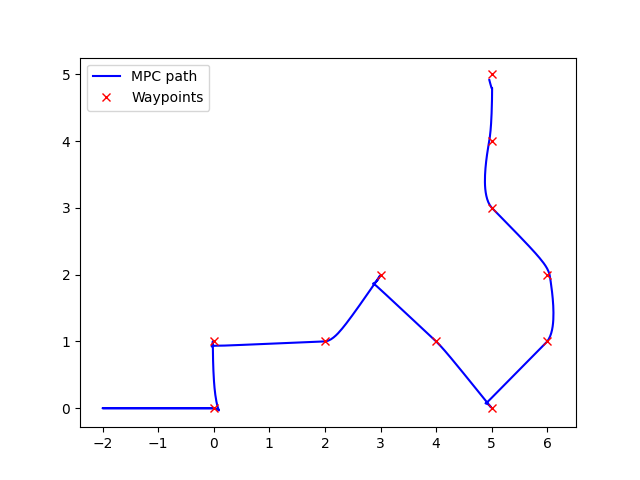
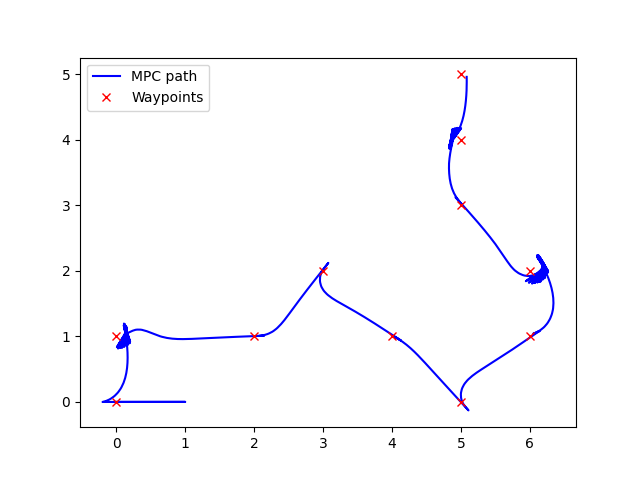
multi_agent running, but working???

diff --git a/src/mpc/src/combined_mpc_solver.py b/src/mpc/src/combined_mpc_solver.py
@@ -1,3 +1,5 @@
+#!/usr/bin/env python3
+
 # import numpy as np
 # import matplotlib.pyplot as plt
 # from numpy.linalg import inv
@@ -10,6 +12,9 @@
 # from scipy.linalg import expm
 # from scipy.linalg import solve_continuous_are
     
+import sys
+import pdb
+import time
 from pydrake.solvers import mathematicalprogram as mp
 from pydrake.solvers.osqp import OsqpSolver
 from pydrake.solvers.snopt import SnoptSolver
@@ -24,7 +29,7 @@ from rclpy.node import Node
 import numpy as np
 from std_msgs.msg import String
 from nav_msgs.msg import Odometry
-from geometry_msgs.msg import PoseWithCovariance, Pose, Twist
+from geometry_msgs.msg import PoseWithCovariance, Pose, Twist,Point
 
 from scipy.spatial.transform import Rotation as R 
 
@@ -34,32 +39,34 @@ from scipy.spatial.transform import Rotation as R
 
 robot_subscribers = None;
 robot_publishers = None
-robot_goals = None; #Array with current robot goals
-robot_states = None; #Arrays with robot states
+robot_goals = [None]; #Array with current robot goals
+robot_states = [None]; #Arrays with robot states
+controller_mode = "combined_mpc";
 
-robot_num = 2;
+num_robots = 2;
 
 
 ################################ ROS functions
 
 
-class ROS(Node):                             # Node that houses the subscriber and updates global var for position
+class PoseSubscriber(Node):                             # Node that houses the subscriber and updates global var for position
 
-    def __init__(self, num):
-        super().__init__('ros_message handler')
-        self.ID = num
+    def __init__(self, robot):
+        super().__init__('ros_message_handler' + str(robot))
+        self.ID = robot
         self.goal_subscriber = self.create_subscription(
-            Odometry,
-            "/robot" + str(num) + "/current_goal",         # The topic to listen to
+            Point,
+            "/robot" + str(robot) + "/current_goal",         # The topic to listen to
             self.update_goal,
             10)
 
 
         self.state_subscriber = self.create_subscription(
             Odometry,
-            "/robot" + str(num) + "/state",         # The topic to listen to
+            "/robot" + str(robot) + "/state",         # The topic to listen to
             self.update_state,
-            10)                     
+            10)         
+            
 
 
 
@@ -75,21 +82,61 @@ class ROS(Node):                             # Node that houses the subscriber a
         #self.get_logger().info("pose updated")
 
 
-def update():
-    global robot_states
-    for i in range(1,robot_num+1):
-        rclpy.spin_once(robot_subscribers[i]);
-
 
 class CommandPublisher(Node):
 
     def __init__(self, robot = 1):
         self.num = robot
-        super().__init__('robot_command_publisher')
+        super().__init__('robot_command_publisher'+str(robot))
         self.publisher_ = self.create_publisher(Twist, "robot" + str(robot) + "/combined_cmd", 10)
 
 
+def publish_robot_command (u, robot_id):
+    global robot_publishers;
+
+    cmd = Twist();
+    cmd.linear.x = u[0];
+    cmd.angular.z = u[1];
+    robot_publishers[robot_id].publisher_.publish(cmd)
+
+
+def update():
+    global robot_states
+    global num_robots
+    global robot_subscribers
+    for i in range(1,num_robots+1):
+        #print(" The object is : ", robot_subscribers[i])
+        rclpy.spin_once(robot_subscribers[i]);
+
+def get_robot_state(robot_id):
+
+    #update();
+    global robot_states;
+    pose = robot_states[robot_id];
+
+    x = pose.position.x;
+    y = pose.position.y;
+    r = R.from_quat([ pose.orientation.w, pose.orientation.x, pose.orientation.y, pose.orientation.z])
+    theta = r.as_euler('zyx')
+    
+    return np.array([x,y,theta[2]]);
+
+def get_robot_goal(robot_id):
+
+    #update();
+    global robot_goals;
+    pose = robot_goals[robot_id];
+
+   
+    # r = R.from_quat([ pose.orientation.w, pose.orientation.x, pose.orientation.y, pose.orientation.z])
+    # theta = r.as_euler('zyx')
+    
+    return pose
+
 ####################################
+
+
+
 
 
 class MPC_system(object):
@@ -153,11 +200,11 @@ class MPC_system(object):
             prog.AddConstraint(x[i,2] + f[2]*dt - x[i+1,2], 0, 0)
         
 
-    def add_collision_constraints(prog,all_x, eps = 0.25):
+    def add_collision_constraints(self,prog , all_x, eps = 0.25):
         for x1 in range(0,len(all_x)):
             for x2 in range(x1+1,len(all_x)):
-                for i in range(0,x1.shape[0]):
-                    prog.AddLinearConstraint((all_x[x1][i,0] -  all_x[x2][i,0])**2 + (all_x[x1][i,1] -  all_x[x2][i,1])**2 > eps);
+                for i in range(0,all_x[x1].shape[0]):
+                    prog.AddConstraint((all_x[x1][i,0] -  all_x[x2][i,0])**2 + (all_x[x1][i,1] -  all_x[x2][i,1])**2 >= eps);
 
 
     def add_cost(self, prog, xe, u, N):
@@ -166,25 +213,30 @@ class MPC_system(object):
             prog.AddQuadraticCost(u[i,:] @ self.R @ u[i,:].T)
         prog.AddQuadraticCost(xe[i,:] @ self.Qf @ xe[i,:].T)	
 
-    def compute_mpc_feedback(self, x_current, x_r, u_r, T):
+
+
+    
+
+
+    def compute_mpc_feedback(self, T):
         '''
         This function computes the MPC controller input u
         '''
 
         # Parameters for the QP
         N = 10
-        cmd_inputs = [];
-        mpc_states = [];
+        all_x = [];
+        all_u = [];
         global robot_goals;
         global robot_states;
 
 
         prog = MathematicalProgram()
-        for i in range(1, robot_num+1):
-            
+        for i in range(1, num_robots+1):
+            update();
             # Initialize mathematical program and declare decision variables
-            update()
-            x_current = robot_states[i]
+            x_current = get_robot_state(i)
+            x_r = get_robot_goal(i);
             
             x = np.zeros((N, self.nx), dtype="object")
             for i in range(N):
@@ -202,22 +254,75 @@ class MPC_system(object):
             all_x += [x]
             # Solve the QP
             # solver = OsqpSolver() 
+            time.sleep(T);
+
         self.add_collision_constraints(prog, all_x)
         solver = SnoptSolver()
         result = solver.Solve(prog)
 
         u_mpc = np.zeros(2) # v and theta_dot
+        robot_count = 1;
+        for u in all_u:
+            #pdb.set_trace()
+            u_mpc = result.GetSolution(u)[0]
+            publish_robot_command(u_mpc,robot_count)
+            print("output published : ", u_mpc)
+            robot_count += 1
 
-        u_mpc = result.GetSolution(u)[0]
+        #print("output published")
 
+
+       
         return u_mpc    
 
-    def compute_lqr_feedback(self, x):
-        '''
-        Infinite horizon LQR controller
-        '''
-        A, B = self.continuous_time_linearized_dynamics()
-        S = solve_continuous_are(A, B, self.Q, self.R)
-        K = -inv(self.R) @ B.T @ S
-        u = K @ x
-        return u
+def initialze_ros(robot_count = 3):
+    global robot_subscribers;
+    global robot_publishers;
+    global robot_states;
+    global robot_goals;
+    global num_robots;
+
+
+    rclpy.init()
+    robot_publishers = [None];
+    robot_subscribers = [None];
+    robot_goals = [np.zeros((3,1))];
+    robot_states = [Pose()];
+    
+    #num_robots = robot_count
+
+
+    for i in range(1,num_robots+1):
+        robot_states += [Pose()];
+        robot_goals += [np.zeros((3,1))];
+        robot_publishers += [CommandPublisher(i)];
+        robot_subscribers += [PoseSubscriber(i)];
+
+
+def main(args):
+
+  
+    global waypoints
+    global current_goal
+    global current_waypoint_index
+    global num_robots
+
+    time.sleep(10);
+
+    num_robots = int(sys.argv[1])
+    initialze_ros(num_robots+1) # ROBOTS ARE INDEXED FROM 1
+
+    Q = np.diag([1.2, 1.2, 0])
+    R = np.diag([0.1, 0.15])
+    Qf = Q
+    dt = 0.15
+
+    robot_system = MPC_system(Q, R, Qf);
+
+    while(controller_mode == "combined_mpc"):
+        
+        robot_system.compute_mpc_feedback(dt);
+
+
+if __name__ == '__main__':
+    main(1)

diff --git a/src/mpc/src/multi_robot_mpc.py b/src/mpc/src/multi_robot_mpc.py
@@ -29,7 +29,7 @@ robot_poses = [];
 num_robots = 0;
 #robot_id = 1;
 control_mode = "combined"
-combined_cmd = None
+combined_cmd = [Twist()]
 
 ######################################################################### ROS #########################################################################
 
@@ -49,7 +49,7 @@ class PoseSubscriber(Node):                             # Node that houses the s
         self.combined_cmd = self.create_subscription(
             Twist,
             "/robot" + str(robot_number) + "/combined_cmd",         # The topic to listen to
-            self.update_global_state,
+            self.update_combined_cmd,
             10)
 
         self.subscription                               # prevent unused variable warning
@@ -61,7 +61,7 @@ class PoseSubscriber(Node):                             # Node that houses the s
 
     def update_combined_cmd(self, msg):
         global combined_cmd;
-        combined_cmd = msg;
+        combined_cmd[self.num] = msg;
         # Pose contains position(current_pose.position.x/y/z) and orientation (current_pose.orientation.w/x/y/z)
         #self.get_logger().info("pose updated")
 
@@ -92,7 +92,7 @@ class CommandPublisher(Node):
 
 def get_robot_state(robot_id):
 
-    update_all();
+    update(robot_id);
     global robot_poses;
     pose = robot_poses[robot_id];
 
@@ -152,7 +152,7 @@ def get_combined_control_command(robot_id):
     global robot_pose_subscribers;
     global combined_cmd;
     update(robot_id);
-    return [combined_cmd.linear.x, combined_cmd.angular.z]
+    return [combined_cmd[robot_id].linear.x, combined_cmd[robot_id].angular.z]
 
 
 
@@ -170,20 +170,24 @@ def initialze_ros(robot_count = 3):
     global robot_cmd_publishers;
     global robot_poses;
     global num_robots;
+    global combined_cmd;
 
 
     rclpy.init()
     robot_cmd_publishers = [None];
     robot_pose_subscribers = [None];
     robot_poses = [Pose()];
+    combined_cmd = [Twist()];
     
     #num_robots = robot_count
 
     
     for i in range(1,robot_count):
         robot_poses += [Pose()];
+        combined_cmd += [Twist()];
         robot_cmd_publishers += [CommandPublisher(i)];
         robot_pose_subscribers += [PoseSubscriber(i)];
+
 
 
 
@@ -205,7 +209,7 @@ def robot_mpc(robot, robot_id ):
         current_x = get_robot_state(robot_id) # x, y, theta
         xr = current_goal
 
-        if (control_mode == "combined"):
+        if (control_mode == "combined_mpc"):
         
             current_u_command = get_combined_control_command(robot_id);
         else:
@@ -233,7 +237,7 @@ def robot_mpc(robot, robot_id ):
         # Publish u
         ur = current_u_real
         publish_robot_command(current_u_real,robot_id)
-        time.sleep(dt)
+        #time.sleep(dt)
 
 
     current_u_command = np.zeros(2) # STOP AT GOAL
@@ -261,7 +265,7 @@ def main(args):
 
     num_robots = int(sys.argv[1]);
     robot_id = int(sys.argv[2]);
-    control_mode = "notcombined"
+    control_mode = "combined_mpc"
 
     initialze_ros(num_robots+1) # ROBOTS ARE INDEXED FROM 1
     Q = np.diag([1.2, 1.2, 0])
